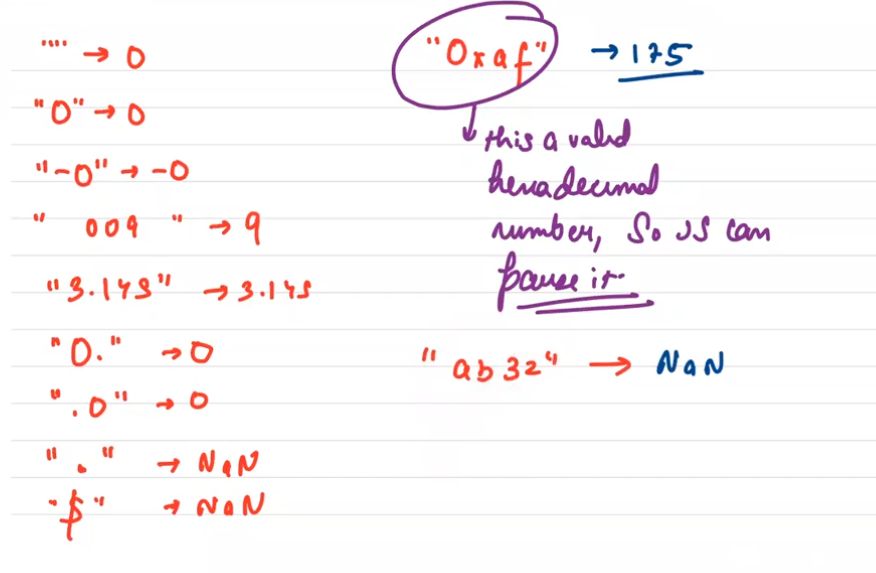
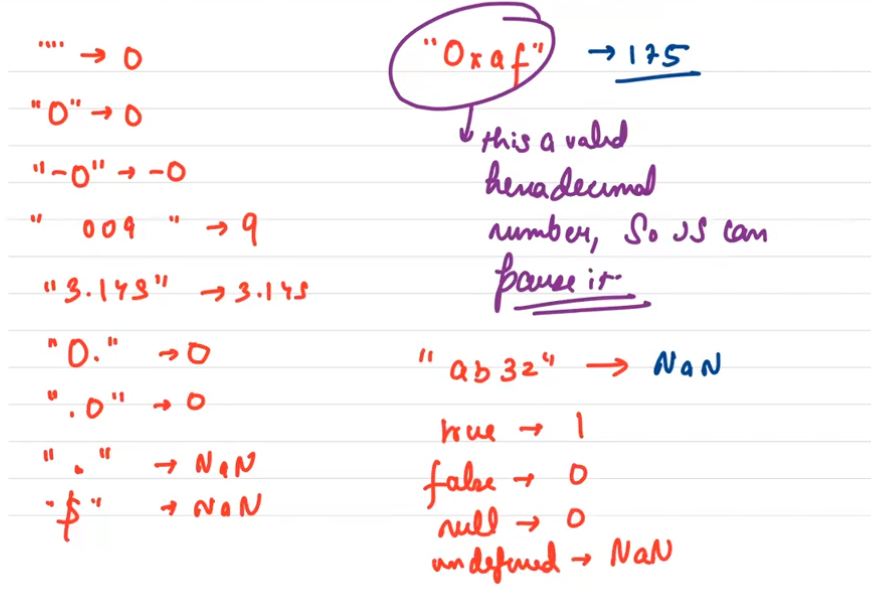
toNumber demo complete

diff --git a/1.Basics/coercion/1. ToNumber_Demo1.js b/1.Basics/coercion/1. ToNumber_Demo1.js
@@ -38,3 +38,17 @@ console.log("0xf" - 1);
  * ToNumber("0xf") -> 15
  * 15 - 1 = 14 
 */
+console.log("0xz" - 1);
+/**
+ * "0xz" is having 0x in the start to denote hexadecimal, but z is not a valid hexadecimal.
+ * ToNumber("0xz") -> NaN
+ * NaN - 1 = NaN
+*/
+console.log("abcd" - 2);
+console.log("0xabcd" -2);
+console.log("0o11" - 1); // "0o11" -> 9 in hexadecimal
+/**
+ * "0o11" is a string, and can became a valid octal number
+ * ToNumber("0o11") -> 9
+ * 9 - 1 = 8
+*/

diff --git a/1.Basics/coercion/README.md b/1.Basics/coercion/README.md
@@ -2,3 +2,7 @@
 
 this are some examples of type conversions.
 ![ToNumber1](./ToNumber1.png)
+
+more..
+
+![ToNumber2](./ToNumber2.png)
